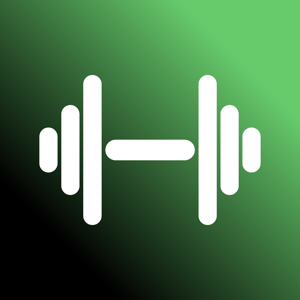
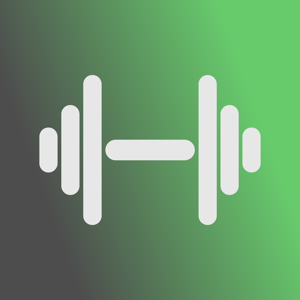
updated the colors

diff --git a/logo.html b/logo.html
@@ -17,7 +17,7 @@
         .gradient-box {
             width: 800px;
             height: 800px;
-            background: linear-gradient(45deg, #000 20%, #67cb6c 80%);
+            background: linear-gradient(70deg, #4d4d4d 20%, #67cb6c 80%);
             display: flex;
             justify-content: center;
             align-items: center;
@@ -36,7 +36,7 @@
         }
 
         .dumbbell-element {
-            background-color: white;
+            background-color: rgb(231, 231, 231);
             border-radius: 35px;
             margin-left: 5px;
             margin-right: 5px;
